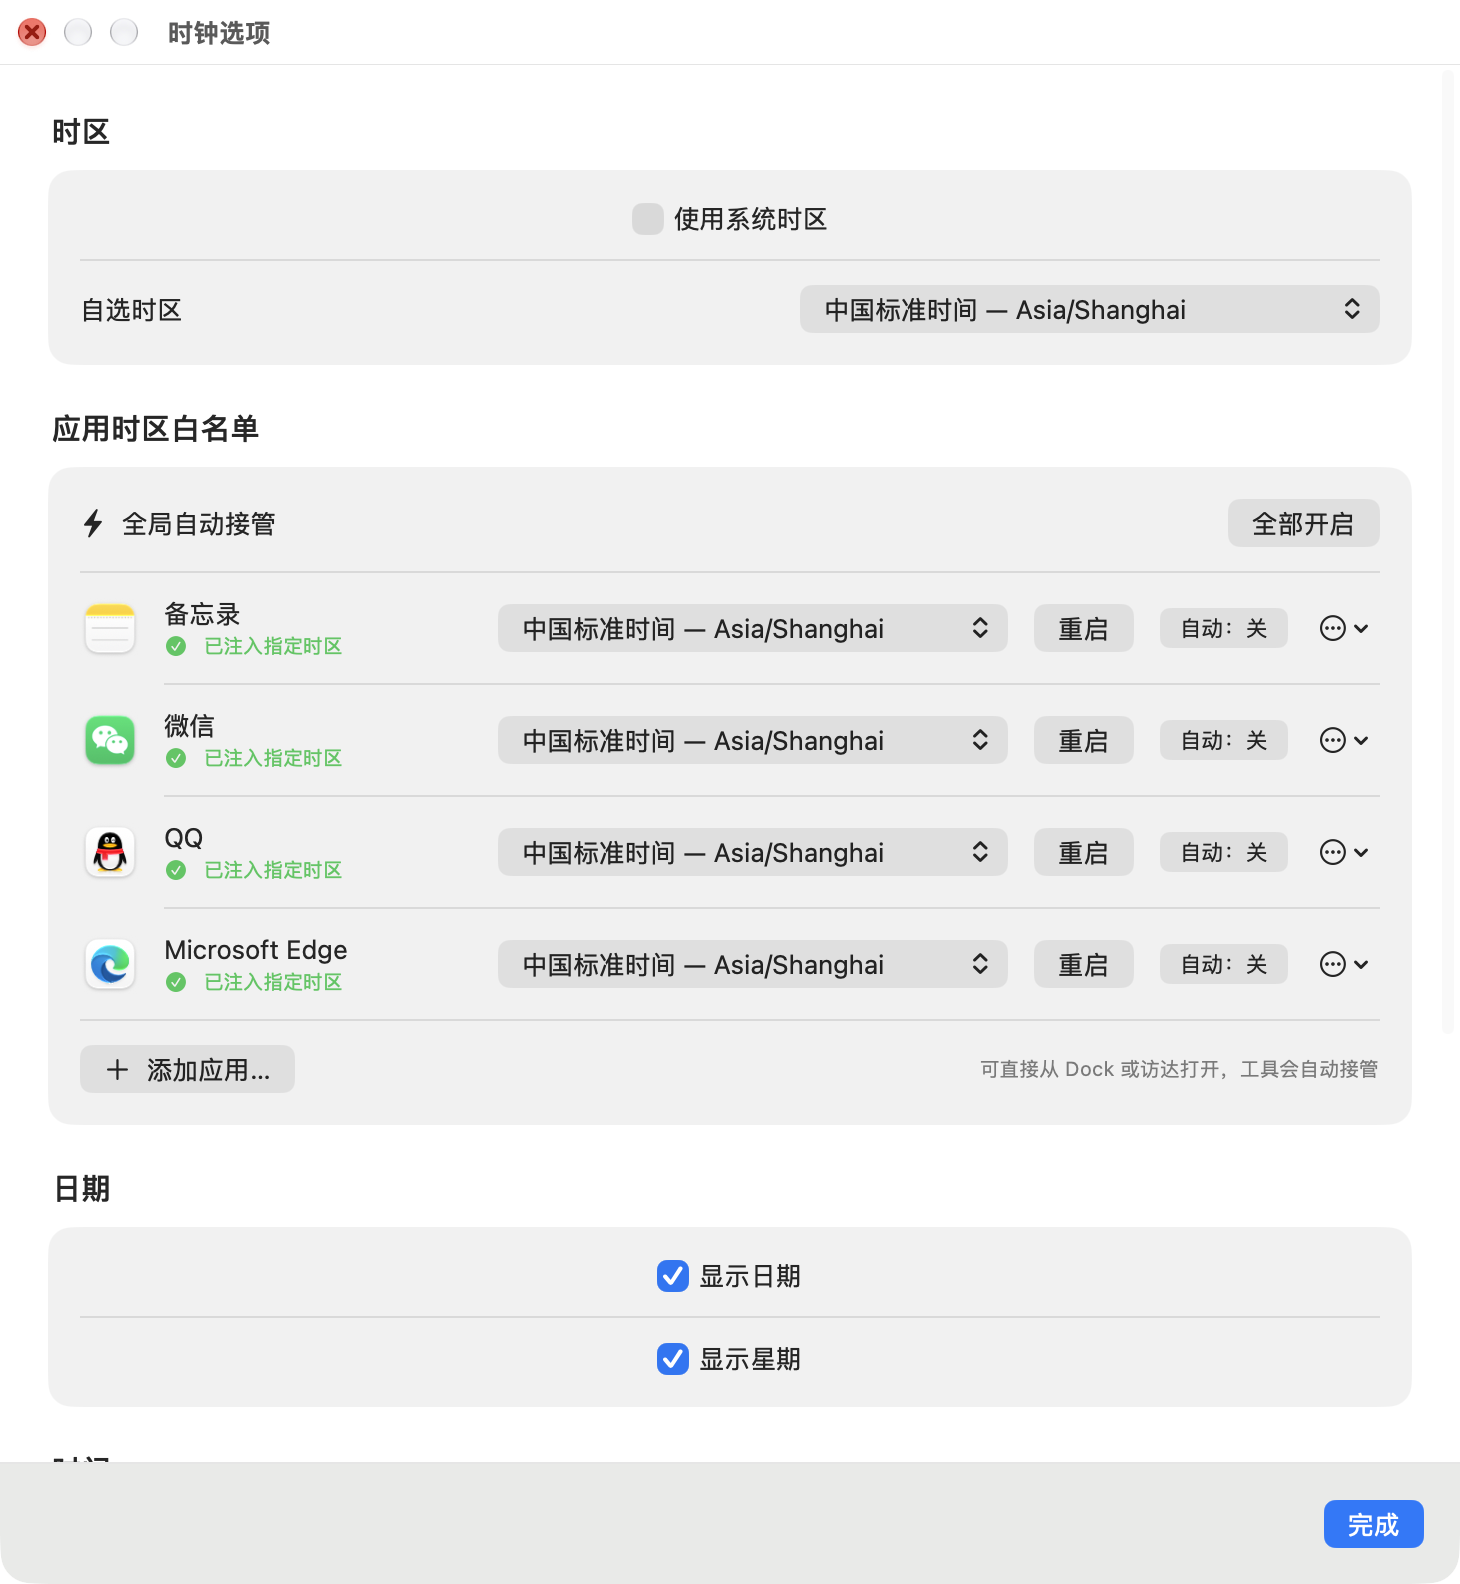
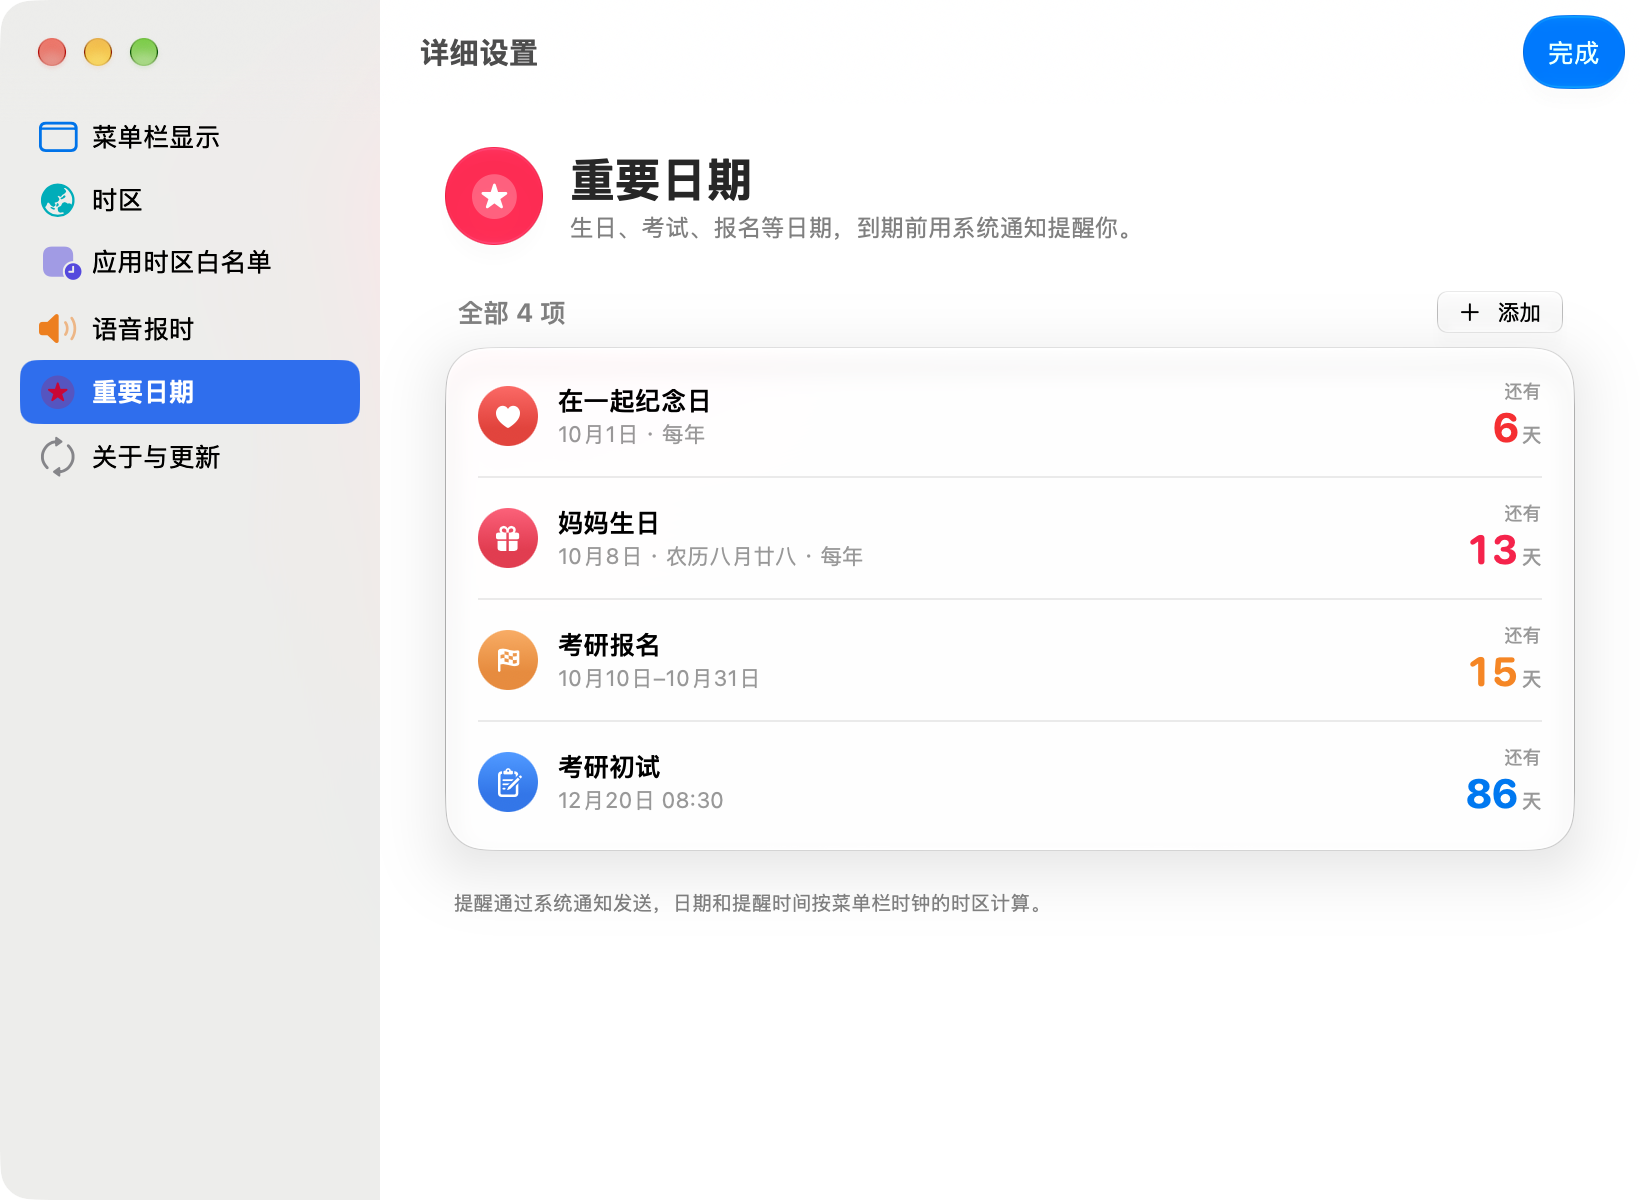
Refresh README for 2.0: Liquid Glass panel, calendar, important dates
New screenshots (taken with the panel harness over a backdrop), macOS 26
requirement, download instructions for Releases, measured power figures
instead of the old 1 mW claim, and the dev test scripts.

diff --git a/Tests/PanelHarness/PanelHarness.swift b/Tests/PanelHarness/PanelHarness.swift
@@ -13,11 +13,13 @@ import SwiftUI
 ///   --seed-dates               replace the important dates with a fixed sample set
 ///   --reset                    start from default settings
 ///   --settings page            open 详细设置 on a page (e.g. importantDates) and screenshot it to --shot
+///   --backdrop                 put a colorful wallpaper behind the panel and shoot the region (for docs)
 /// After every click it prints the settings, so tests can assert on them.
 @main @MainActor struct PanelHarness {
     static var item: NSStatusItem!
     static var controller: ControlPanelController!
     static var settingsWindow: SettingsWindowController?
+    static var backdrop: NSWindow?
 
     static func arg(_ name: String) -> String? {
         let args = CommandLine.arguments
@@ -71,6 +73,7 @@ import SwiftUI
                 exit(3)
             }
             printState("start", panel)
+            if CommandLine.arguments.contains("--backdrop") { showBackdrop(under: panel) }
             run(clicks[...], panel)
         }
         DispatchQueue.main.asyncAfter(deadline: .now() + 60) { print("ERROR timeout"); exit(2) }
@@ -87,7 +90,14 @@ import SwiftUI
             if let path = arg("shot") {
                 let p = Process()
                 p.executableURL = URL(fileURLWithPath: "/usr/sbin/screencapture")
-                p.arguments = ["-x", "-o", "-l", "\(panel.windowNumber)", path]
+                if backdrop != nil {
+                    // Region shot so the wallpaper behind the glass is included.
+                    let frame = panel.frame.insetBy(dx: -14, dy: -14)
+                    let top = NSScreen.screens[0].frame.height - frame.maxY
+                    p.arguments = ["-x", "-R", "\(Int(frame.minX)),\(Int(top)),\(Int(frame.width)),\(Int(frame.height))", path]
+                } else {
+                    p.arguments = ["-x", "-o", "-l", "\(panel.windowNumber)", path]
+                }
                 try? p.run(); p.waitUntilExit()
             }
             exit(panel.isVisible ? 0 : 3)
@@ -124,6 +134,20 @@ import SwiftUI
         let bits = [s.showDate, s.showWeekday, s.showSeconds, s.flashSeparators].map { $0 ? "1" : "0" }.joined()
         let dates = ImportantDateStore.shared.items.map(\.title).joined(separator: ",")
         print("\(label): height=\(Int(panel.frame.height)) toggles=\(bits) zone=\(s.timeZoneIdentifier) dates=[\(dates)]")
+    }
+
+    static func showBackdrop(under panel: NSWindow) {
+        let frame = NSRect(x: panel.frame.minX - 60, y: panel.frame.maxY - 1000, width: panel.frame.width + 120, height: 1000)
+        let window = NSWindow(contentRect: frame, styleMask: .borderless, backing: .buffered, defer: false)
+        window.level = NSWindow.Level(rawValue: NSWindow.Level.popUpMenu.rawValue - 1)
+        window.ignoresMouseEvents = true
+        window.contentView = NSHostingView(rootView: MeshGradient(
+            width: 3, height: 3,
+            points: [[0, 0], [0.5, 0], [1, 0], [0, 0.5], [0.6, 0.45], [1, 0.5], [0, 1], [0.5, 1], [1, 1]],
+            colors: [.indigo, .blue, .cyan, .purple, .pink, .teal, .orange, .mint, .blue]
+        ))
+        window.orderFront(nil)
+        backdrop = window
     }
 
     static func seedDates() {
